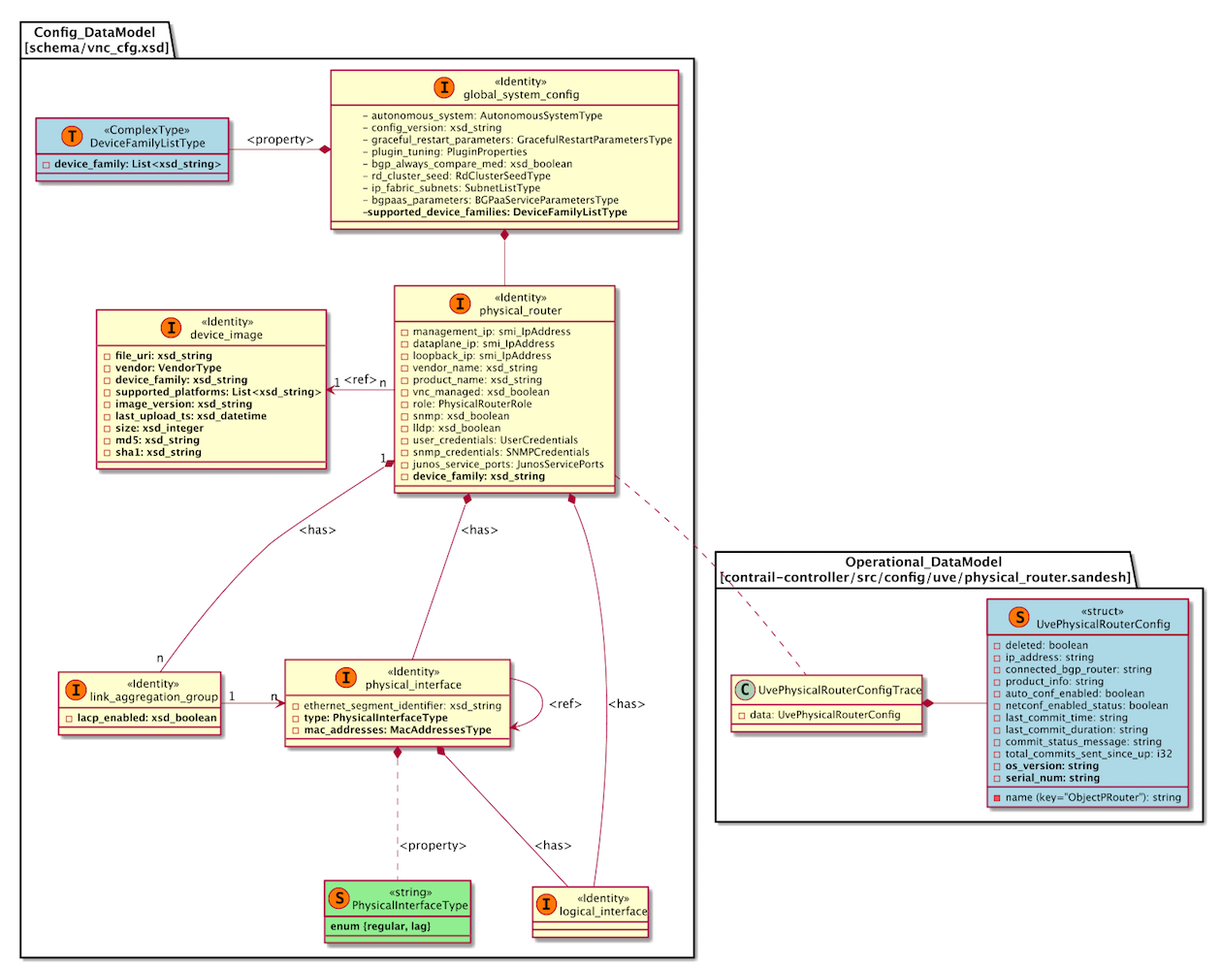
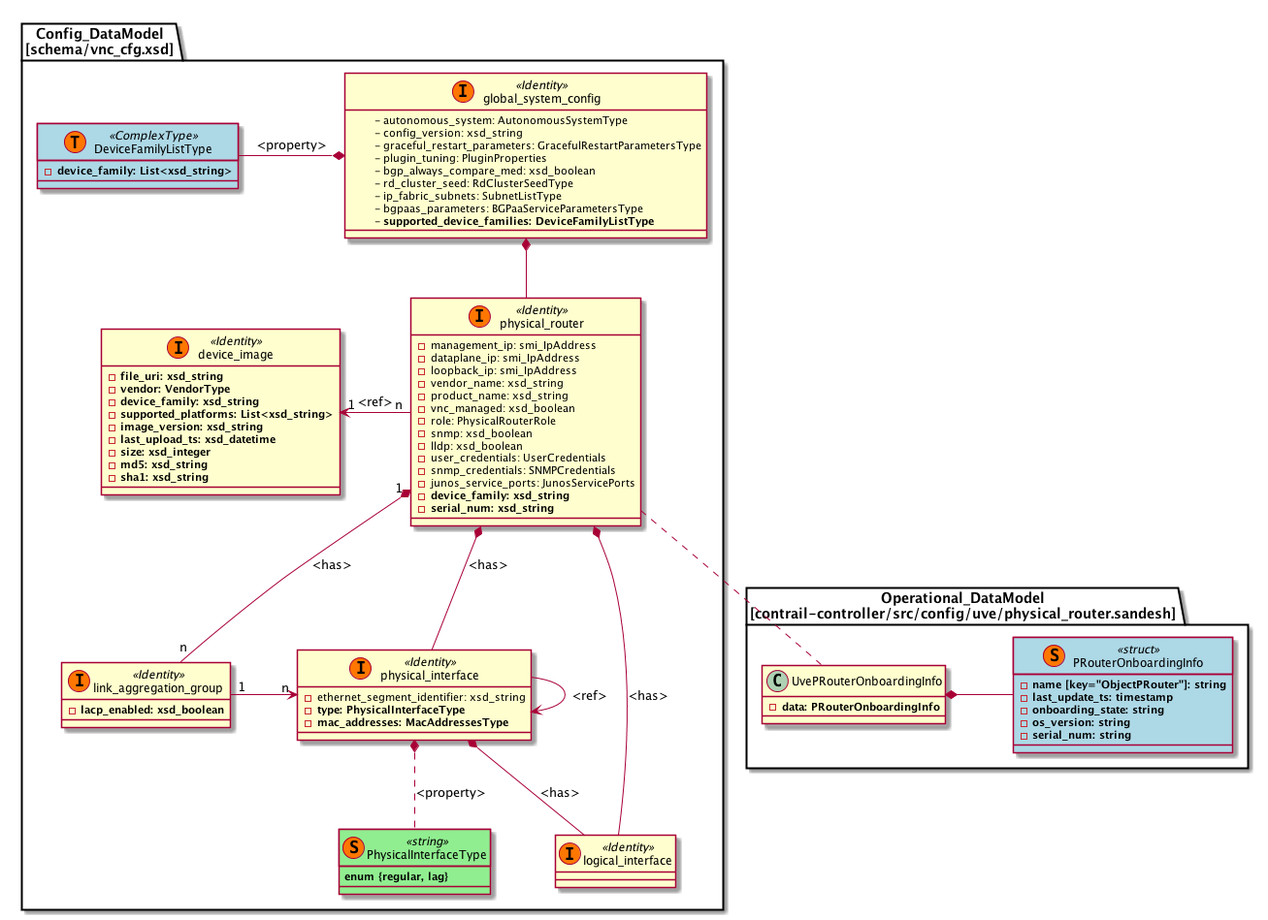
[DM] initial checkin for the underlay management blue print
Partial-Bug: #1739812

Changed region(s): [[0.0, 0.0, 0.9905, 1.0], [0.031, 0.6112, 0.5262, 0.8251], [0.2476, 0.6112, 0.2786, 0.6417]]

diff --git a/device-discovery-and-image-management.md b/device-discovery-and-image-management.md
@@ -7,23 +7,51 @@ Contrail currently does not manage the underlay network in the data center and i
 
 Many underlay network is built with devices from multiple vendors. One of the challenge to underlay network management is multi-vendor support. Each vendor's device has its own CLI commands, configuration schema, or APIs to configure and operate. 
 
-Here are the epic user stories that captures the requirements from PLM for underlay network onboarding and automation.
+Here are the user stories that captures the requirements from PLM for underlay network onboarding and automation.
 
-#### [User Story GLAC-2] Importing/Discovering DC Fabric and Service Objects 
-This User Epic refers to a Greenfield or Brownfield Data Center, where a new set of devices has been installed and powered on. These devices are TORs, Spines, VCF configured collapsed TOR/Spines, SDN Gateways, VPN gateways,  or Bare Metal Servers. The user wants to be able to automate the setup/expansion of the DC Fabric,  and at the same time to be able to use Contrail to create virtual networks/overlays across vRouter-based workloads and Bare Metal servers/non-vRouter based workloads.
+#### [User Stroy GLAC-44] - DC Admin managing Fabrics and their namespaces and attributes to define the Fabric attributes to be used
+This User Story refers to a user willing to manage a set of devices and BMS/PNF as a Fabric; a fabric is a set of devices and BMS/PNFs that falls under the same DC admin responsibility area. Therefore, in advance to managing devices and BMS , the user wants to define the Fabric namespaces (IP addresses, Route targets,etc/..) and attributes that will be assigned to the devices and BMS/PNF to onboard them on the Fabric
+All devices and BMS/PNFs are assigned addresses and names from the same namespace
+These devices and BMS/PNFs may be in different sites, however they are managed and administered through the same Contrail Fabric instance
 
-To achieve this goal the user wants bring these new devices and servers under the management of Contrail Fabric with minimal user intervention, possibly none when setting up or expanding a fabric or a set of Bare Metal servers.
+The User Story aims to specify the User experience requirements for the user to be able to define
 
-This user Epic covers the discovery and import of devices, before any action (re-imaging, configuration, role assignment) is performed.
+- Namespaces and Fabric Attributes Of the set of devices that Contrail Fabric will administer as a single administrative domain
+- The user is able to see through the UI all its administered Fabrics. Each fabric is an independently administered domain. Each Fabric may be linked to a different RBAC profile for administration (managing the fabric) as well for services
+- The User is able to specify overlapping or non overlapping namespaces across distinct fabrics. Fabrics are independent tenants
 
-#### [User Story GLAC-110] Perform software upgrade on selected devices
+At a minimum, a Fabric is defined through a set of Namespaces: addressing and naming spaces for all entities Contrail Fabric has to provision for that fabric to be ready-for-service and to implement service overlays Attributes: topology characteristics and characterization of the fabric
+
+#### [User Story GLAC-48] - View Existing Fabrics
+As an admin, I want to be able to see all my existing fabrics so that I can make changes to them or view details of each of these fabrics.
+
+#### [User Story GLAC-49] - Create Fabric, namespaces and attributes
+As an admin, I want to create a new fabric so that I can onboard devices, PNFs and BMS on the fabric.
+
+#### [User Story GLAC-51] - Discover device by management ip 
+As an admin, I should be able to discover brownfield devices by supplying the management ip and credentials so that I can add this device to my fabric. 
+
+The user enters the namespace definition first via the UI, this information includes a list of IP addresses, or a range, or a subnet, along with an optional mac address as well, and a set of credentials. This information is stored in the database and is entered from the UI. 
+
+Then, the user will launch the device on boarding job. 
+
+The inputs into the discovery can be: 
+
+1. IP Address range 
+2. IP Subnet 
+3. Several user-ids/passwords 
+4. password based for phase 1, NOT key-based. 
+
+The discovery should try each IP address, if it's pingable, then try the different user-ids/password combinations until one of them works. If none work, continue with another IP address in the subnet and/or range. 
+
+#### [User Story GLAC-110] - Perform software upgrade on selected devices
 As a DC operator, the user must be able from the Contrail Fabric UI to 
 1) select a set of devices by group,type,vendor/model and/or OS version 
 2) apply a polocy that performs SW upgrade on the selected devices to a target OS version. 
 
 Acceptance criteria: All selected devices are software upgraded to the target OS image selected
 
-#### [User Story GLAC-47] Device Onboarding - brown field
+#### [User Story GLAC-47] - Device Onboarding - brown field
 The user wants to onboard a Brownfield device in Contrail Fabric Onboarding the device means to change its status to Ready-For-Service, which means the device can be used to perform CRUDL operations on Overlay services 
 
 Initial condition: The device is present in the Device Inventory where it must have at least Mgmt IP @ assigned (& associated mgmt MAC), Vendor:type:OS, Fabric name assigned, GroupID assigned 
@@ -31,31 +59,73 @@ Initial condition: The device is present in the Device Inventory where it must h
 The device has already management address, base configuration active. It also has IGP protocols , routing policies configured. However it may not have role-specific fabric configuration 
 
 
-#### [User Story GLAC-136] Device Topology Discovery
+#### [User Story GLAC-136] - Device Topology Discovery
+After a device has been on-boarded, and is managed by Contrail Fabric a topology discovery process should be initiated. 
+
+If LLDP is not configured on all ports on the device it should be added to facilitate auto-discovery. 
+
+The topology discovery should discover and correlate the LLDP neighbors and connected ports. The discovery should determine which devices are connected, and on which ports they interconnect. 
+
+The information should be stored, to facilitate future Topology Visualization, and allow for the automatic configuration of Point-to-Point Interfaces and their associated underlay routing protocols. 
+
+Where dynamic topology discovery is not desired or supported the user should have the ability to create an association between two discovered objects, manually defining the adjacency. 
 
 # 3. Proposed solution
-The proposed solution is to extend Contrail config node with EMS functionality via Ansible. Diagram below shows the high level design of the propose solution.
+The proposed solution is to extend Contrail config node with EMS functionality via Ansible. Device discovery, device image upgrade, device underlay configuration are implemented as Ansible playbooks that are triggered via a new action URL added to the API server. A set of custom Ansible python modules are developed for EMS specific logic as well as interactions with VNC data model and uve/object log operational data model. Diagram below shows the proposed architecture.
 
 ![High Level Design](images/fabmgt_ems.png)
 
-#### Why Ansible?
+### Why Ansible?
 - Multi vendor support with rich plugin
 - Extensible configuration management and automation with rich set of plugins 
 - Easy to customize by network engineer during deployment
 
-#### Why job?
+### Why job?
 - Some EMS functions such as image upgrade or RMA could take long time to execute and user needs feedback on the progress
 - Many EMS functions are applied to multiple devices in a workflow. It is important for admin to keep track of devices with failures.
 - There are use cases where EMS functions needs to be scheduled to run at certain time window.
 
-#### Ansible Playbook Execution Flow
+### Job Template
+
+Job template is a new identity added to the VNC data model to capture the metadata info for an Ansible playbook. New playbook and Job template can added to the system on the fly and existing playbook and template can be tweaked and customized by the field engineer. However, the following job templates are loaded into the system during initial installation of Contrail Fabric:
+- job template for device discovery
+- job template for device import
+- job template for image upgrade
+- job template for limited underlay config
+
+A job can be launched via action URL "/execute-job" against a job template. The payload of this action URL contains the following info. Examples can be found in section 4.6.
+- job template id
+- optional list of PRouter device id. When this parameter is set, the playbook will be run in parallel against multiple devices.
+- job input JSON which contains the specific input for this job. The JSON must conform to the JSON schema specified job template's "input-schema" property
+
+The "/execute-job" action launches the job in a sub-process and returns to the caller before the job execution finishes. JobExecutionUVE object is created to track a specific job execution. The life span of this UVE object equals to the life span fo this sub-process. While job is running, a job log is also created to record the job execution progress. The job status attribute of last job log should be either success or failure. Last job log entry should also include the job result if the job completes with success.
+ 
+![Job Management](images/fabmgt_job_dm.png)
+
+### Ansible Playbook Execution Flow
 ![Job call flow](images/fabmgt_pb_flow.png)
 
 ## 3.1 Alternatives considered
 #### NA
 
 ## 3.2 API schema changes
-### 3.2.1 Device and Image Management
+### 3.2.1 Fabric Management
+Two new identity objects are added to the Contrail VNC data model: _fabric_ and _namespace_
+
+_Fabric_ defines a set of namespaces and attributes for a set of devices that belongs to the same administrative domain. Each fabric has a list of namespaces objects, a list of key-value attributes, and a set of device credentials. In phase 1, we support three types of namespace: IPV4 CIDR addresses, ASN numbers, and MAC addresses. Each namespace can be tagged with one or more labels. Each label is a key-value pair similar to [Kubernetes label](https://kubernetes.io/docs/concepts/overview/working-with-objects/labels/). Here is an example of a namespace:
+```
+type: ipv4_cidr
+value: 10.155.69.0/24
+labels: [{"management": "spine"}, {"loopback": "spine"} ] 
+```
+Labels are used by the device management playbooks to select the appropriate resources defined in the namespace to onboard, manage, and configure the devices in the fabric. For example, the device discovery playbook used the `management` label to find the namespace that contains the management IPs for the fabric devices. 
+
+Fabric attributes are the key-value labels for the _fabric_ object. It could be used as directives, or hints to assign resources defined in the namespace to devices. For example, `igp-protocol: ospf` attribute could be used by the underlay provisioning playbook to choose which IGP protocol to use for the IP fabric.
+
+Each _fabric_ object is associated with a set of PRouter devices that belongs to the fabric. The ref edge is added between _fabric_ object and _physical-router_ object in the data model. Each PRouter device can only be associated with one _fabric_ object.
+  
+![Fabric namespace](images/namespace_dm.png)
+### 3.2.2 Device and Image Management
 #### device-image 
 This is a new identity object added to the VNC data model to capture all the metadata for the device image. When device image object is assigned to the physical-router, the intent is to upgrade the physical-router to the specific software version specified in the device image object. When the image upgrade is successfully performed, the UvePhysicalRouterConfigTrace UVE's os_version attribute should match the one defined in the device image. Here are the list of properties for the device image object:
 
@@ -69,40 +139,230 @@ UvePhysicalRouterConfigTrace
 
 ![Device and Image Management](images/fabmgt_dm.png)
 
-
-### 3.2.1 EMS Ansible Jobs
-![Job Management](images/fabmgt_job_dm.png)
-
-#### New VNC identities
-job, job-template
-#### New UVE and object logs
-JobExecutionUVE, JobLog
-
 ## 3.3 User workflow impact
-#### (pending to discussion with UI team)
+Here is the high level workflow for the phase 1
+1. Admin creates a new Fabric object in Fabric landing page
+    - defines namespaces for management IP prefix and ASN number
+    - defines fabric attributes such as credentials and directives for BGP underlay config.
+2. Admin selects the newly created Fabric object in the Fabric landing page and launches the device discovery job. The detail fabric page will show the job execution status & log. When the job is done, the network device page of the fabric will be populated with discovered devices.
+3. Admin selects one or multiple newly discovered device in the device landing page and launch the device import job to import physical/logical interfaces.
+4. Admin select one or multiple devices in the device landing page and launch the image upgrade job
+5. Admin select one or multiple devices in the device landing page to deploy the underlay config.
+
+When we support the device roles and onboarding policy in Phase 2, The step 3, 4, 5 will be triggered automatically by the policy when device is assigned with proper roles.
 
 ## 3.4 UI changes
-#### (pending to discussion with UI team)
+#### Introduction
+For Phase 1, the goal is to seamlessly integrate the new functionality required by the UI, into the new Contrail UI. There are several new areas or UI screens that need to be added as follows:
+
+###### Fabric Page
+A new section where the user can create a new "fabric" and specify one or more "namespaces" is required. The left navigation can be extended by adding a new section called __Fabric__. Once selected, a statistical 
+landing page will be displayed, with information about the various fabrics and devices (details TBD). A list of existing fabrics will be displayed, along with an __Add__ button to add a new fabric. 
+Once a fabric has been selected, the user can then do the following:
+- create a new namespace
+- edit an existing namespace with the caveat that deletion is not permitted and needs to be handled elsewhere.
+- Once a namespace is created, the user has the option to run a __Discovery__ on that namespace.
+- Discovery needs to be idempotent
+
+
+###### Devices Page
+Under the devices page, two new columns need to be added; __state__ and __role__. The __states__ indicates the state that the device is in:
+
+- `Probing` - this state is set when a ping/snmp has determined that it is a device of some sort, but before the credentials have been tried.
+- `Credentials Failed` - this state indicates that none of the credentials worked. Here the user may go back to the fabric page and add an additional credential
+to one of the namespaces.
+- `Under Config Pending` - this state indicates that the device is under fabric management, but the underlay hasn't been configured
+- `Under Management` - the underlay has been configured and the device is under fully under management and can now be used by the overlay.
+- _please note the above states are not final._
+
+The _role_ specifies whether that device is a _spine_ or a _leaf_ and the cell within that row is editable with a droplist of either option. Once a role has been selected and saved, a job is automatically triggered that calls an Ansible playbook specific to that device type and role it plays to configure the _underlay configuration_. Once the job completes successfully, the _state_ will refelct `Underlay Configured`. Since _role_ will be implemented in Phase 2, user needs to pick the devices manually to trigger the various device jobs in Phase 1.
+
+###### Job Services Page
+A new _Job Services_ page will be added that shows all running jobs and previously run jobs. A percentage completion will be displayed, along with a details page to show detailed progress. The job service will break up jobs into multiple greenlets, in batches of 20 where each greenlet will run against a single device. The overall job status will indicate `success` or `failure` with failure indicating that some error/problem occurred, for example: 
+
+- Either an ansible playbook failed to execute (crashed or some ansible exception occurred)
+- Or push of a config did not succeed either because
+    - there was no netconf channel established
+    - the configuration pushed to the device return an error
+    - etc
+- the job detailed log needs to indicate 3 things:
+    - what the error was
+    - why did it occur
+    - how to fix it
 
 ## 3.5 Notification impact
-#### Review links:
-https://review.opencontrail.org/38468
+N/A
 
 # 4. Implementation
-## 4.1 Device Discovery
+## 4.1 Fabric Management
+API server provides Fabric CRUD APIs generated from the fabric data model (See section 3.2.1 for details).
 
-## 4.2 Device Import
+## 4.2 Device Discovery
+In a brownfield scenario, the assumption is that the devices have a management IP address already configured. Prior to device discovery, the user would have created a namespace. A namespace consists of a collection of 
+IP prefixes, IP address ranges, along with several pairs of credentials. One or more namespaces can be created with overlapping and/or different IP address ranges and credentials. Device discovery is triggered by the 
+user where the user can select either a namespace, or can manually enter IP address ranges and prefixes along with credentials.
 
-## 4.3 Image Upgrade
+1. A _probe_devices_ job is issued and an _execute_job_ call is issued to the API server along with input parameters such as a json body (with IP prefixes, credentials, namespace), a job template ID.
+2. An Ansible playbook/module will then: 
+   - ping the device list from the namespace data, if the ping responds, an SNMP get system info will be issued to determine the device type and family.
+   - If SNMP OID indicates that it's a Juniper family, store that information (IP address, device type/family) into the database _create_pr_, setting the state to _probing_
+   - If the SNMP OID indicates that it's a non-Juniper device, discard.
+   - Continue for all namespace information
+   - Take all the Juniper found devices and try the credentials.
+   - If one of the credentials works, update the PR with that information and set the PR state to _probed_
+   - If the device was a Juniper device, but none of the credentials work, set the PR state to _credentials_failed_
+3. Job logs are recorded at every level.
 
-## 4.4 Topology Discovery
+During device discovery, the PRouter state will transition as follows:
+- Probing - indicates that the device has passed the SNMP stage and the discovery is now trying the various credentials.
+- Credentials Failed - indicates that none of the credentials worked.
+- Under Management - indicates that the device has been discovered and is under management and the credentials worked
+- Underlay Configured - indicates that the underlay has been configured/set for this device.
 
-## 4.5 Underlay config
+## 4.3 Device Import
 
-## 4.6 Ansible Modules
-### VNC Ansible Module
-### UVE Ansible Module
-### Object Log Ansible Module
+After device discovery has completed and the device is in a state of "under management", the device configuration is then imported. This action is triggered via the UI where the user can select all "under management" 
+and then select Device Import
+
+A _device_import_ job is launched with the subset of newly discovered Juniper devices and an Ansible playbook will:
+- import the device configuration
+- The following configurations will be imported:
+  - physical interfaces
+  - Logical interfaces
+  - VLAN information
+    
+The configuration information will be reflected in the various UI screens like the physical router page, physical interface, and logical interface pages, etc.
+
+The input json schema for the _device_import_ module is:
+
+```
+{
+    "$schema": "http://json-schema.org/draft-06/schema#",
+    "title": "Device Import Input",
+    "type": "object",
+    "properties": {
+        "prouter_uuid": {
+        "type": "string",
+        "pattern":"^[a-fA-F0-9]{8}-[a-fA-F0-9]{4}-4[a-fA-F0-9]{3}-[89aAbB][a-fA-F0-9]{3}-[a-fA-F0-9]{12}$"
+        }
+    },
+    "required": ["prouter_uuid"]
+}
+ ```
+
+## 4.4 Image Upgrade
+#### Image Upload to Fabric Manager
+- The user uploads a selected image through the UI. The UI server will upload the file to the Swift server and is driven from the UI via multi-part html.
+- A URL is returned after the image is uploaded to Swift.
+- The UI server will call _create_image_ object with all the metadata such as the image URL, device family, vendor information using the API server. 
+
+#### Image Upgrade
+1) To upgrade an image, the new image is first selected from a list of available images.
+2) Based on the image selection, a list of compatible devices are displayed. The user is allowed to choose one or multiple devices from the list to upgrade.
+3) An _image_upgrade_ job is issued with the image ID and a device list.
+4) An _execute_job_ call is issued to the API server along with input parameters such as a json body(with image UUID and list of device UUIDs), a job template ID (an _image_upgrade_ job 
+template that contains a list of all the _image_upgrade_ playbooks for various device families.)
+5) From the API server, the job execution is handled by the Job Manager, which analyses the input json and selects the right playbook to be executed from the list of image_upgrade Ansible playbooks.
+6) The Job Manager will spawn the threads for each device. Each thread will run a playbook for each device.
+7) The Job Manager will log all the results of each playbook in the job log and will aggregate a summary for the main job.
+8) Any exceptions in the playbook will be caught by the Job Manager and will be logged accordingly in job logs.
+
+Below is the json schema for the _image_upgrade_ job template:
+
+```
+{
+    "$schema": "http://json-schema.org/draft-06/schema#",
+    "title": "Image upgrade input",
+    "type": "object",
+    "properties": {
+        "image_uuid": {
+            "type": "string"
+        }
+    },
+    "required": ["image_uuid"]
+}
+```
+
+ 
+#### Playbook Details
+1. The Playbook will communicate with the API server to get the image metadata and PR (Physical Router) information.
+2. The Device family information contained in the Image metadata is validated with the PR device family information for compatibility.
+3. Then the playbook needs to connect to the Swift server to access the selected image. In order to do that, an _etcd_ file has to be written with all the required credentials and access 
+details. _Under NO circumstances will credentials be stored in clear text._ The same config would have been used by the UI server at the time of upload. A non-authenticated temp URL of the image file is requested from the Swift file server.
+4. The image will then be upgraded on the device. This involves the following steps:
+   1. _Staging_: Copying the file from Swift to the device using the Swift temp URL. This is done using http file-copy command on the device. All the checksum validations are done.
+   2. _Upgrade_: This is done using “request software add” command.
+   3. _Reboot_: Reboot is issued after image upgrade is done.
+   4. _Validation_: After the device boots up we check for the version and validate.  
+5. The PR UVE  for the device will be updated with the OS version.
+6. Job logs are also recorded at every level.
+7. If the image upgrade fails, the failure is captured in the logs
+ 
+###### Notes
+- The etcd file for Swift configurations has to be constructed with the help of the provisioning team.
+- We will use _juniper_junos_software_ Ansible library for all Junos device family.
+
+
+## 4.5 Underlay Configuration
+For phase 1, the underlay configuration will be triggered by the user through the UI. The user will select the newly discovered devices that have been brought into fabric manager, and trigger an underlay configuration job. 
+
+An _underlay_config_ job is created and launched and an Ansible playbook will then push the following configuration knobs:
+- LLDP Configuration
+  - Only push LLDP configuration if the flag is enabled (specified by the user)
+  - Contrail analytics node discovers Layer 2 topology connectivity via LLDP
+- Netconf (CLI)
+- Interface IPs, 
+- Syslog
+- NTP
+- Routing options like router ID
+- BGP
+
+## 4.6 Job Service
+Long running requests will need to take advantage of the new job infrastructure, along with a new UI where the user can see all running jobs and past run jobs. The job infra will read the job template object and based on the parameter 'Multi_device_job', will spawn a single greenlet or use a pool of greenlets with a concurrency set to 20. Each greenlet works on a single device. The greenlet will internally invoke the playbook and there is a timeout to guard the playbook execution. The Job service will aggregate the various playbook outputs and create a job log for capturing the job task summary.
+
+The action URL job executing a job is `/execute-job`. The api server will invoke a job manager sub-process to execute the job depending on the job template. An execution id is generated in the api server and returned to the caller.
+ 
+Input to the API will adhere to the following schema: 
+```
+{
+    "$schema": "http://json-schema.org/draft-06/schema#",
+    "title": "/execute-job input schema",
+    "type": "object",
+    "properties": {
+        "job_template_id": {
+            "type": "string",
+            "pattern": "^[0-9a-fA-F]{8}-[0-9a-fA-F]{4}-[0-9a-fA-F]{4}-[0-9a-fA-F]{4}-[0-9a-fA-F]{12}",
+            "description": "UUID of the job template that is to be used by the job"
+        },
+        "input": {
+            "type": "object",
+            "description": "JSON object holding the input data for the job. This data will be passed to the job executor that implements the business logic for the job"
+        },
+        "params": {
+            "type": "object",
+            "description": "Dictionary holding any additional data that is to be passed the job manager. For example for the jobs of type 'device_job' this will include the device id list based on which the job execution will be split."
+        }
+    },
+    "required": ["job_template_id", "input"]
+}
+``` 
+ 
+The output of this API which confirm to the below format:
+```
+{
+    "$schema": "http://json-schema.org/draft-06/schema#",
+    "title": "/execute-job input schema",
+    "type": "object",
+    "properties": {
+        "job_execution_id": {
+            "type": "string",
+            "pattern": "^[0-9a-fA-F]{8}-[0-9a-fA-F]{4}-[0-9a-fA-F]{4}-[0-9a-fA-F]{4}-[0-9a-fA-F]{12}",
+            "description": "UUID for the job execution instance that was just created by the API. This can be used to retrieve the job logs etc along with the job template UUID"
+        }
+    },
+    "required": ["job_execution_id"]
+}
+```
 
 # 5. Performance and scaling impact
 ## 5.1 API and control plane
